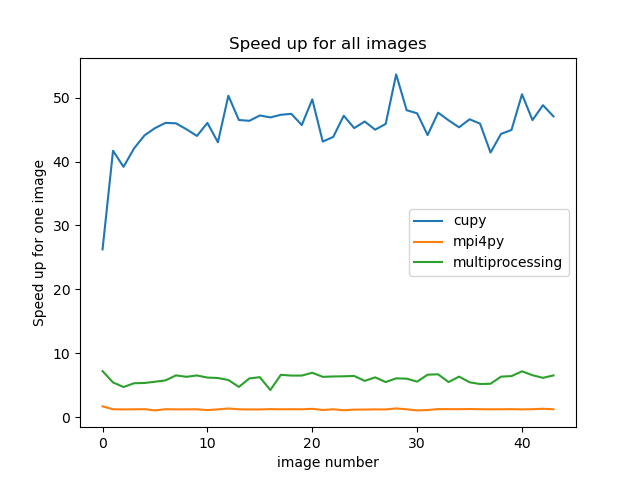
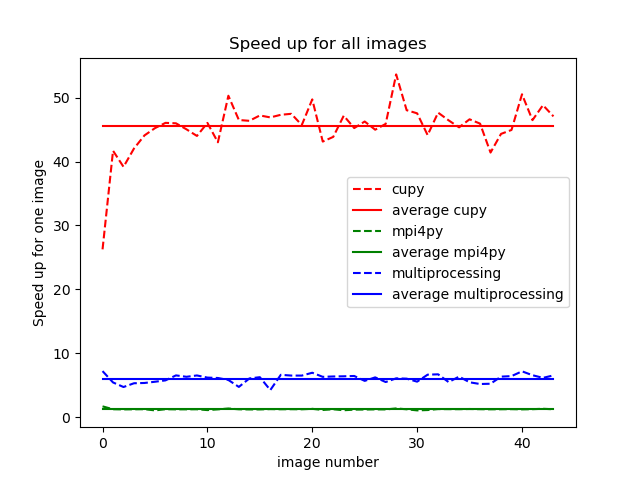
modif results

diff --git a/running_time/get_results.py b/running_time/get_results.py
@@ -22,12 +22,30 @@ for result_file in result_files:
         speed_up = no_multi/module_result
         avr_speed_up = np.mean(speed_up)
 
-        vis_results[result_file.split('.')[0]] = (avr_speed_up, speed_up)
+        vis_results[result_file.split('.')[0]] = (avr_speed_up, speed_up, module_result, np.mean(module_result))
+
+colors = ['r', 'g', 'b']
+for ind, module in enumerate(vis_results.keys()):
+     time_per_image = vis_results[module][2]
+     avr_time = vis_results[module][3]
+     plt.plot(np.arange(len(time_per_image)), time_per_image, label=module, linestyle='dashed', c=colors[ind])
+     plt.plot(np.arange(len(time_per_image)), [avr_time]*len(time_per_image), label='average '+module, c=colors[ind])
+     plt.legend()
+     plt.title('Time spend per image')
+     plt.xlabel('image number')
+     plt.ylabel('time')
+
+plt.savefig('running_time/time_per_image.png')
+plt.clf()
 
 
-for module in vis_results.keys():
+
+
+for ind, module in enumerate(vis_results.keys()):
      all_speed_up = vis_results[module][1]
-     plt.plot(np.arange(len(all_speed_up)), all_speed_up, label=module)
+     avr_speed_up = vis_results[module][0]
+     plt.plot(np.arange(len(all_speed_up)), all_speed_up, label=module, c=colors[ind], linestyle='dashed')
+     plt.plot(np.arange(len(all_speed_up)), [avr_speed_up]*len(all_speed_up), label='average '+module, c=colors[ind])
      plt.legend()
      plt.title('Speed up for all images')
      plt.xlabel('image number')
@@ -35,12 +53,3 @@ for module in vis_results.keys():
 
 plt.savefig('running_time/all_images_speed_up.png')
 plt.clf()
-
-for module in vis_results.keys():
-     avr_speed_up = vis_results[module][0]
-     plt.plot(np.arange(16), [avr_speed_up]*16, label=module)
-     plt.legend()
-     plt.title('Average speed up for all images')
-     plt.ylabel('Average speed up')
-
-plt.savefig('running_time/avr_speed_up.png')
